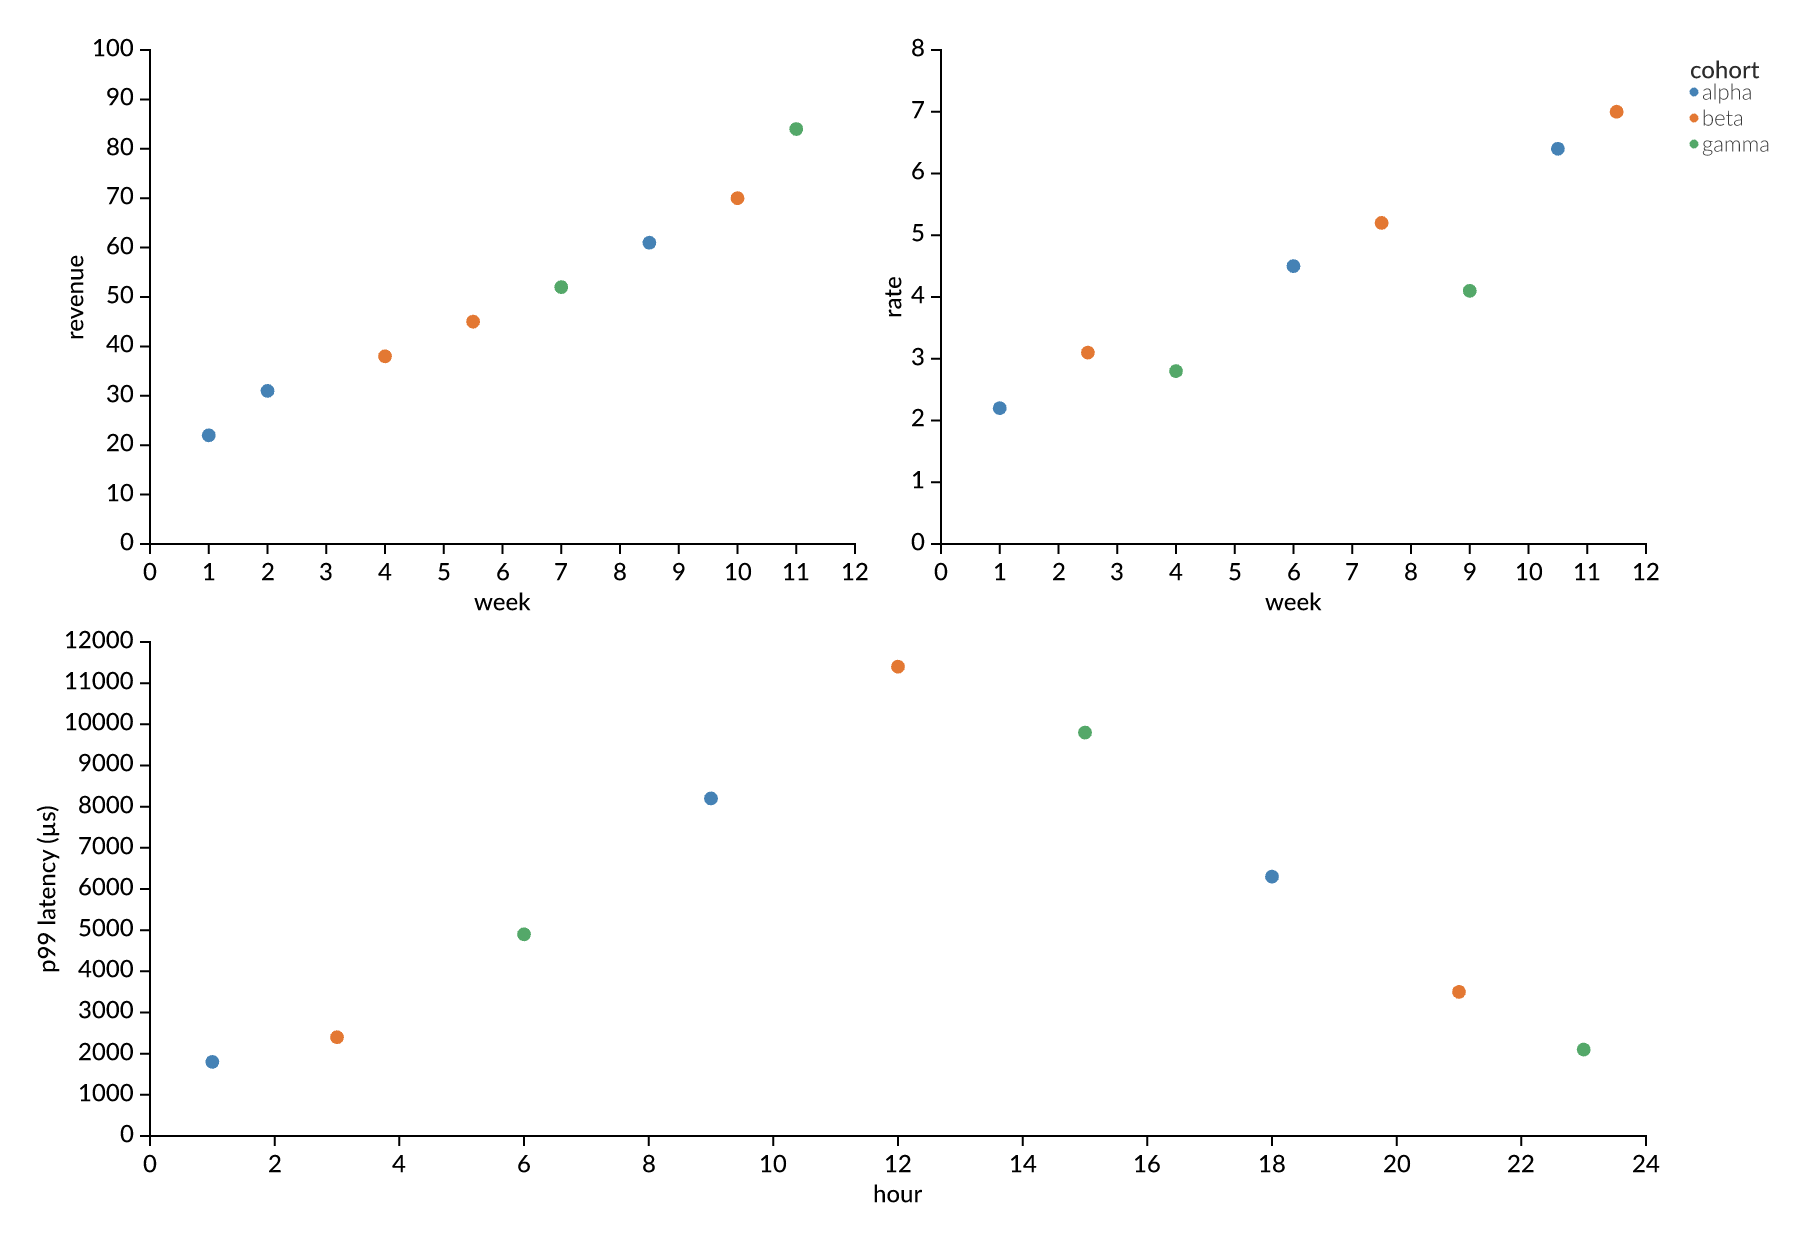
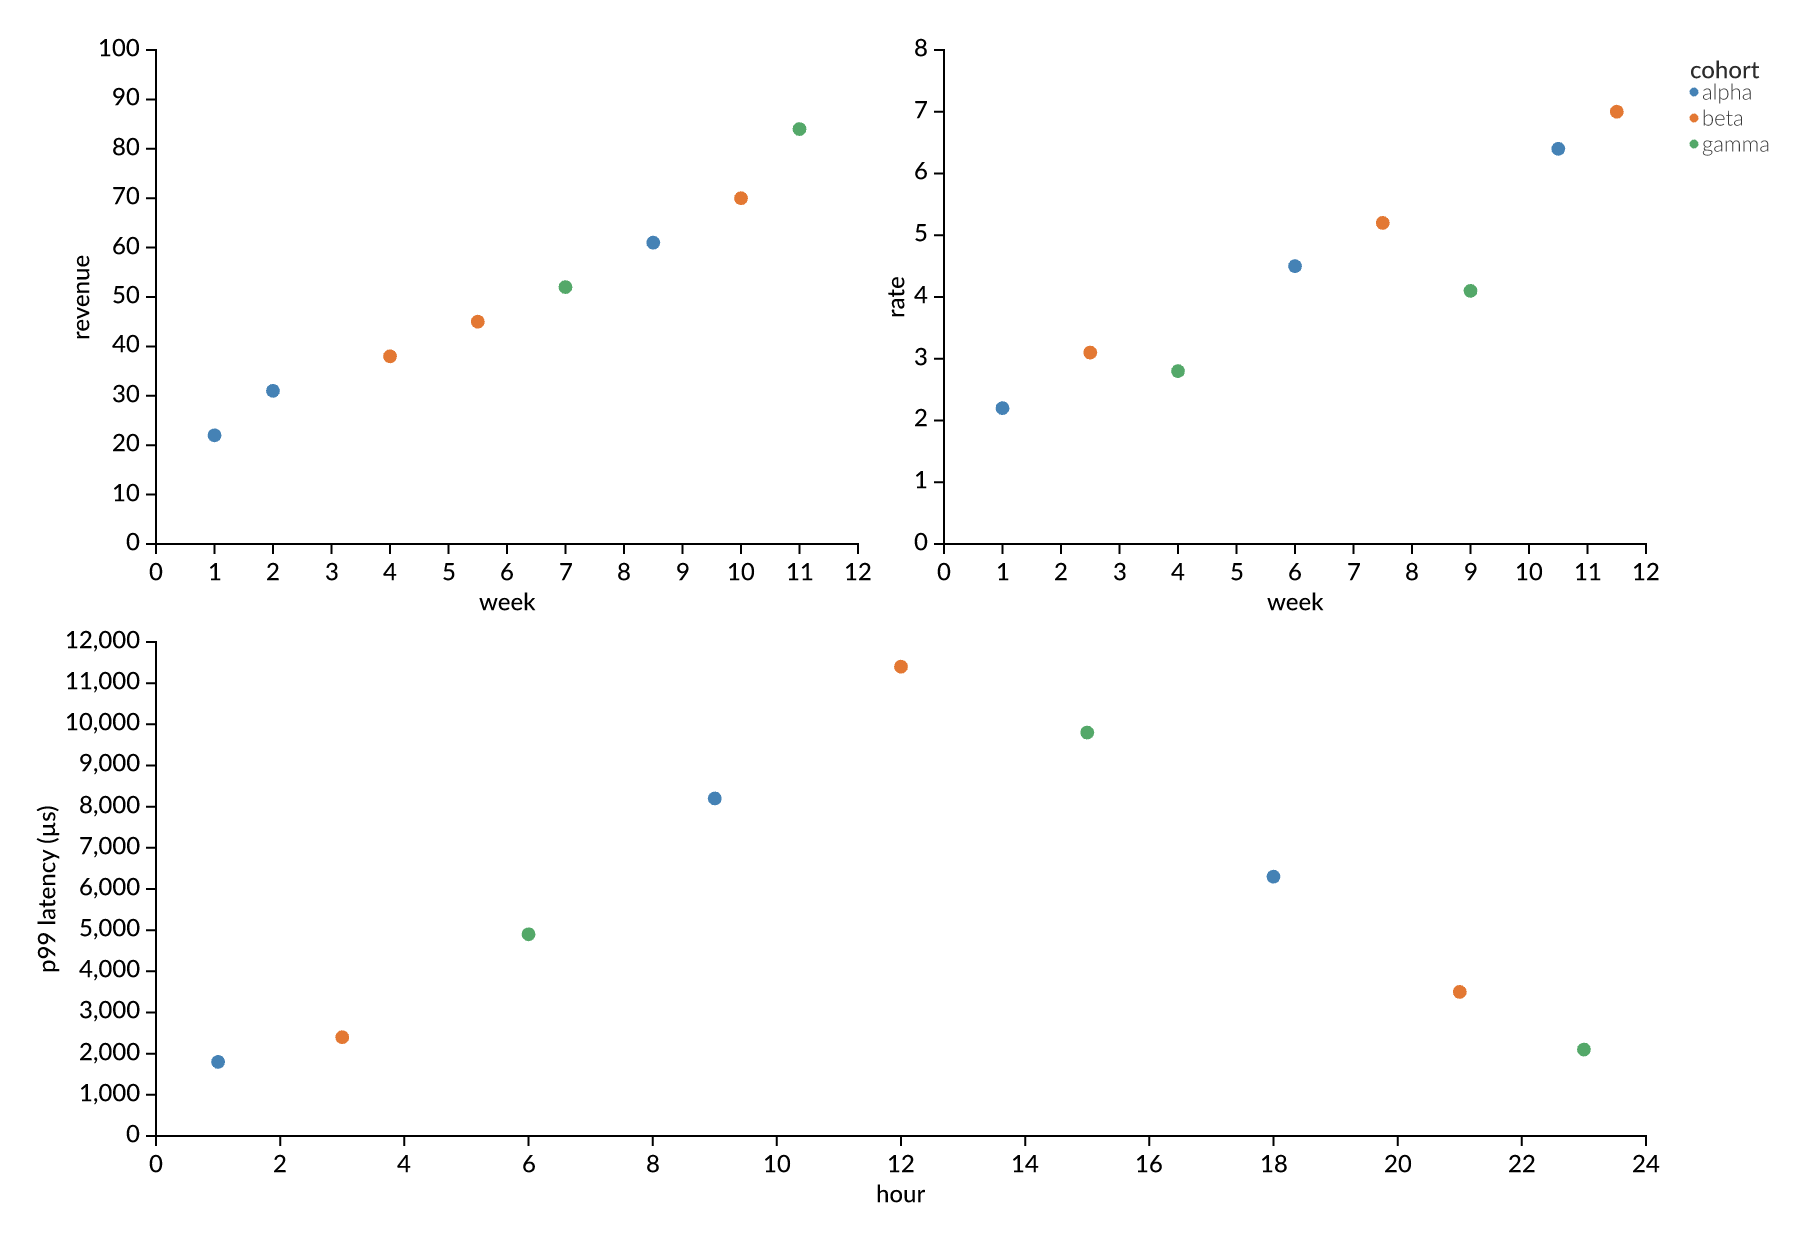
refactor(layout): label grid axes with a prepared D3 formatter
The chart grid example passes Vega's default ",f" D3 formatter to its
axes and measures and renders with the default text engine, so tick
labels such as 12,000 carry thousands separators. The gallery image is
regenerated.

diff --git a/avenger-layout/examples/chart_grid.rs b/avenger-layout/examples/chart_grid.rs
@@ -10,10 +10,12 @@ use avenger_color::ColorOrGradient;
 use avenger_common::canvas::CanvasDimensions;
 use avenger_common::types::SymbolShape;
 use avenger_common::value::ScalarOrArray;
-use avenger_geometry::marks::MarkGeometryUtils;
-use avenger_guides::axis::numeric::make_numeric_axis_marks_with_text_engine;
+use avenger_format::{NumberFormatProvider, PreparedFormatter};
+use avenger_format_number_d3::D3NumberFormatProvider;
+use avenger_geometry::marks::TextGeometryUtils;
+use avenger_guides::axis::continuous::make_continuous_axis_marks;
 use avenger_guides::axis::opts::{AxisConfig, AxisOrientation};
-use avenger_guides::legend::symbol::{SymbolLegendConfig, make_symbol_legend_with_text_engine};
+use avenger_guides::legend::symbol::{SymbolLegendConfig, make_symbol_legend};
 use avenger_layout::{EdgeDemand, Edges, Layout, LayoutSolution, Rect, Side, Size, SolveOptions};
 use avenger_scales::scales::ConfiguredScale;
 use avenger_scales::scales::linear::LinearScale;
@@ -22,8 +24,8 @@ use avenger_scenegraph::marks::mark::SceneMark;
 use avenger_scenegraph::marks::rect::SceneRectMark;
 use avenger_scenegraph::marks::symbol::SceneSymbolMark;
 use avenger_scenegraph::scene_graph::SceneGraph;
-use avenger_text::TextEngine;
-use avenger_wgpu::canvas::{Canvas, CanvasConfig, PngCanvas};
+use avenger_typst_label::LabelEngine;
+use avenger_wgpu::canvas::{Canvas, PngCanvas};
 
 const CANVAS: Size = Size {
     width: 900.0,
@@ -132,11 +134,16 @@ fn build_axes(
     size: Size,
     origin: [f32; 2],
     grid: bool,
-    text_engine: &TextEngine,
+    text_engine: &LabelEngine,
 ) -> Vec<SceneGroup> {
     let (x_scale, y_scale) = plot_scales(spec, size);
     let dims = [size.width, size.height];
-    let x_axis = make_numeric_axis_marks_with_text_engine(
+    // Vega's default axis format
+    let format: PreparedFormatter = D3NumberFormatProvider::new()
+        .prepare(",f")
+        .expect("valid pattern")
+        .into();
+    let x_axis = make_continuous_axis_marks(
         &x_scale,
         spec.x_title,
         origin,
@@ -144,12 +151,13 @@ fn build_axes(
             orientation: AxisOrientation::Bottom,
             dimensions: dims,
             grid,
-            ..Default::default()
+            format: format.clone(),
+            style: Default::default(),
         },
         text_engine,
     )
     .expect("x axis");
-    let y_axis = make_numeric_axis_marks_with_text_engine(
+    let y_axis = make_continuous_axis_marks(
         &y_scale,
         spec.y_title,
         origin,
@@ -157,7 +165,8 @@ fn build_axes(
             orientation: AxisOrientation::Left,
             dimensions: dims,
             grid,
-            ..Default::default()
+            format,
+            style: Default::default(),
         },
         text_engine,
     )
@@ -169,8 +178,8 @@ fn build_axes(
 /// chart area so the whole group is self-contained: placing its origin
 /// on the plot's right edge puts every item (and the title) just past
 /// it, and the group's bbox width is exactly the clearance to demand.
-fn build_legend(plot_height: f32, text_engine: &TextEngine) -> SceneGroup {
-    make_symbol_legend_with_text_engine(
+fn build_legend(plot_height: f32, text_engine: &LabelEngine) -> SceneGroup {
+    make_symbol_legend(
         &SymbolLegendConfig {
             title: Some("cohort".to_string()),
             text: ScalarOrArray::new_array(CATEGORY_NAMES.iter().map(|s| s.to_string()).collect()),
@@ -192,7 +201,7 @@ fn build_legend(plot_height: f32, text_engine: &TextEngine) -> SceneGroup {
 
 /// Measure how far a set of guide groups overflows a `size` plot
 /// rectangle whose top-left sits at the groups' shared origin.
-fn measure_overflow(groups: &[SceneGroup], size: Size, text_engine: &TextEngine) -> Edges<f32> {
+fn measure_overflow(groups: &[SceneGroup], size: Size, text_engine: &LabelEngine) -> Edges<f32> {
     let mut edges: Edges<f32> = Edges::default();
     for group in groups {
         let bbox = group.bounding_box(text_engine);
@@ -259,7 +268,7 @@ fn build_points(spec: &PlotSpec, content: Rect) -> SceneMark {
 fn solve_page(
     specs: &[PlotSpec],
     sizes: &[Size],
-    text_engine: &TextEngine,
+    text_engine: &LabelEngine,
 ) -> LayoutSolution<&'static str> {
     let leaf = |index: usize| -> Layout<&'static str> {
         let spec = &specs[index];
@@ -321,7 +330,7 @@ fn solve_page(
         .expect("solve")
 }
 
-fn settle_layout(specs: &[PlotSpec], text_engine: &TextEngine) -> LayoutSolution<&'static str> {
+fn settle_layout(specs: &[PlotSpec], text_engine: &LabelEngine) -> LayoutSolution<&'static str> {
     let mut sizes = vec![ESTIMATE; specs.len()];
     let mut previous: Option<LayoutSolution<&'static str>> = None;
     for iteration in 1..=8 {
@@ -348,7 +357,7 @@ fn settle_layout(specs: &[PlotSpec], text_engine: &TextEngine) -> LayoutSolution
 #[tokio::main]
 async fn main() {
     let specs = specs();
-    let text_engine = d3_text_engine();
+    let text_engine = avenger_typst_label::bundled_label_engine();
     let solved = settle_layout(&specs, &text_engine);
     let mut marks: Vec<SceneMark> = vec![SceneMark::Rect(SceneRectMark {
         len: 1,
@@ -420,14 +429,11 @@ async fn main() {
             size: [scene.width, scene.height],
             scale: 2.0,
         },
-        CanvasConfig {
-            text_engine,
-            ..Default::default()
-        },
+        Default::default(),
     )
     .await
     .expect("canvas");
-    canvas.set_scene(&scene).expect("set scene");
+    canvas.set_scene(&scene, &text_engine).expect("set scene");
     let image = canvas.render().await.expect("render");
     let out = std::env::args_os()
         .nth(1)
@@ -443,7 +449,7 @@ async fn main() {
 #[test]
 fn measured_guides_fit_final_allocations() {
     let specs = specs();
-    let engine = d3_text_engine();
+    let engine = avenger_typst_label::bundled_label_engine();
     let solved = settle_layout(&specs, &engine);
     for spec in &specs {
         let region = solved.region(&spec.id).unwrap();
@@ -474,16 +480,4 @@ fn measured_guides_fit_final_allocations() {
     let bottom = solved.region(&"latency").unwrap().slot;
     assert_eq!(left.x, bottom.x);
     assert!((right.x + right.width - bottom.x - bottom.width).abs() < 0.01);
-}
-
-fn d3_text_engine() -> avenger_text::TextEngine {
-    let mut registry = avenger_text::NumberFormatRegistry::default();
-    registry.register(
-        "d3",
-        std::sync::Arc::new(avenger_format_number_d3::D3NumberFormatProvider),
-    );
-    avenger_text::default_text_engine().with_number_formatting(
-        avenger_text::NumberFormatConfig::new("d3"),
-        std::sync::Arc::new(registry),
-    )
 }

diff --git a/avenger-layout/README.md b/avenger-layout/README.md
@@ -58,7 +58,7 @@ Set a tolerance and iteration limit appropriate for the application.
 
 The chart-grid example measures axes and a legend with `avenger-guides`,
 repeats layout until allocations settle, maps points with `avenger-scales`,
-and renders with `avenger-wgpu`. One `avenger-text` engine is shared by guide
+and renders with `avenger-wgpu`. One label engine is shared by guide
 measurement and rendering. These crates are development dependencies only.
 
 ```sh
